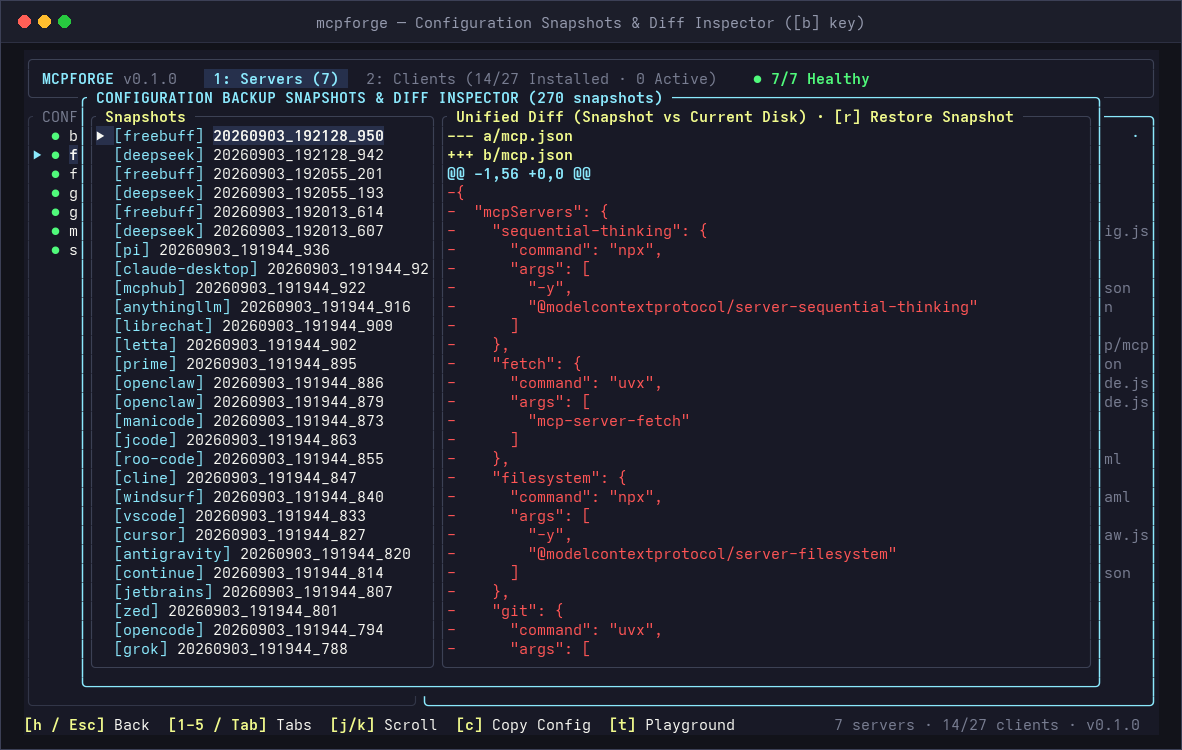
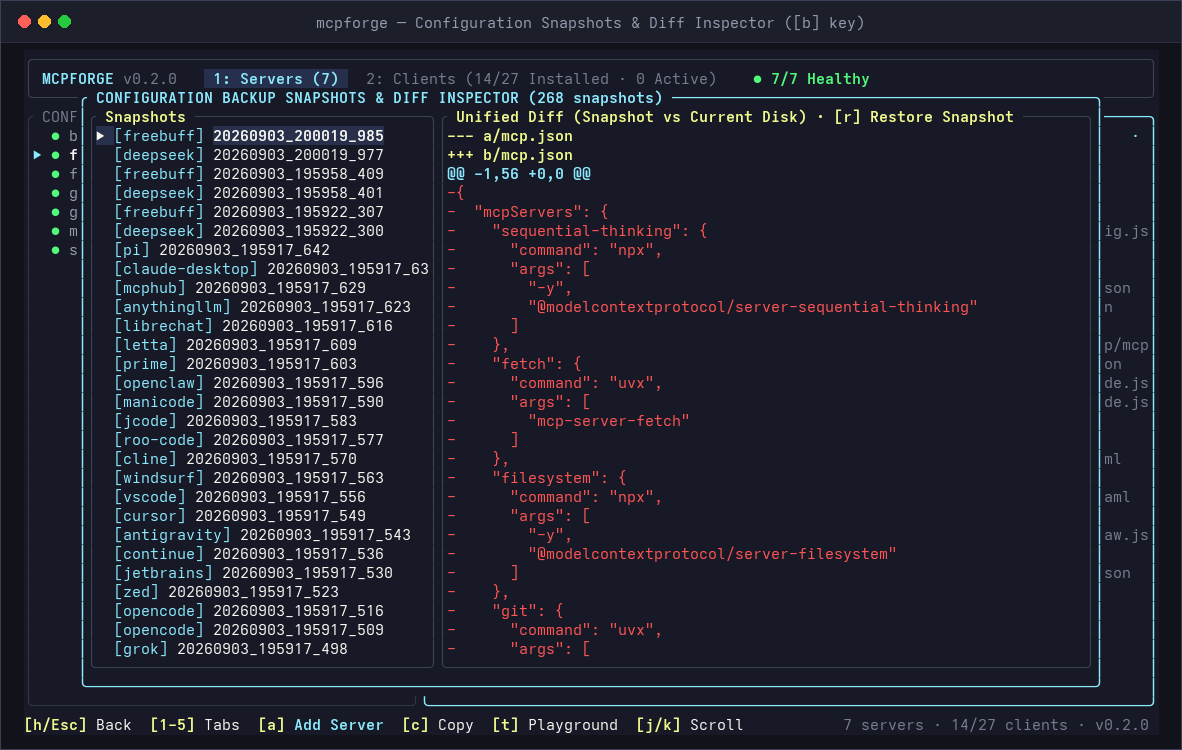
fix(ui): highlight [a] Add Server in footer and quick actions across all views

diff --git a/crates/mcpforge/src/ui/dashboard.rs b/crates/mcpforge/src/ui/dashboard.rs
@@ -76,60 +76,119 @@ fn render_server_list(f: &mut Frame, app: &App, area: Rect, theme: &Theme) {
     let (start, end) =
         crate::ui::layout::calculate_scroll_window(total, app.selected_index, visible_height);
 
-    let items: Vec<ListItem> = filtered[start..end]
-        .iter()
-        .enumerate()
-        .map(|(offset, server)| {
-            let real_idx = start + offset;
-            let status = app
-                .health_cache
-                .get(&server.id)
-                .cloned()
-                .unwrap_or(HealthStatus::Unknown);
+    let items: Vec<ListItem> = if total == 0 {
+        if !app.search_query.is_empty() {
+            vec![
+                ListItem::new(Line::raw("")),
+                ListItem::new(Line::from(vec![
+                    Span::raw("  "),
+                    Span::styled(
+                        format!("No servers match filter '{}'", app.search_query),
+                        Style::default().fg(Color::Rgb(150, 155, 175)),
+                    ),
+                ])),
+                ListItem::new(Line::raw("")),
+                ListItem::new(Line::from(vec![
+                    Span::raw("  • Press "),
+                    Span::styled("[Esc]", theme.key_shortcut),
+                    Span::styled(" to clear filter", Style::default().fg(Color::Cyan)),
+                ])),
+            ]
+        } else {
+            vec![
+                ListItem::new(Line::raw("")),
+                ListItem::new(Line::from(vec![
+                    Span::raw("  "),
+                    Span::styled(
+                        "No configured servers found.",
+                        Style::default().fg(Color::Rgb(150, 155, 175)),
+                    ),
+                ])),
+                ListItem::new(Line::raw("")),
+                ListItem::new(Line::from(vec![
+                    Span::raw("  • Press "),
+                    Span::styled("[a]", theme.key_shortcut),
+                    Span::styled(
+                        " to Add an MCP Server from Catalog",
+                        Style::default()
+                            .fg(Color::Rgb(139, 233, 253))
+                            .add_modifier(Modifier::BOLD),
+                    ),
+                ])),
+                ListItem::new(Line::from(vec![
+                    Span::raw("  • Press "),
+                    Span::styled("[u]", theme.key_shortcut),
+                    Span::styled(
+                        " to Auto-Sync from detected clients",
+                        Style::default().fg(Color::Rgb(150, 155, 175)),
+                    ),
+                ])),
+            ]
+        }
+    } else {
+        filtered[start..end]
+            .iter()
+            .enumerate()
+            .map(|(offset, server)| {
+                let real_idx = start + offset;
+                let is_selected = real_idx == app.selected_index;
+                let is_enabled = server.enabled;
 
-            let (icon, icon_style) = match status {
-                HealthStatus::Healthy { .. } => ("●", theme.status_healthy),
-                HealthStatus::Degraded { .. } => ("▲", theme.status_degraded),
-                HealthStatus::Broken { .. } => ("✖", theme.status_broken),
-                HealthStatus::Disabled => ("○", theme.status_disabled),
-                HealthStatus::Unknown => ("?", theme.muted),
-            };
+                let (cursor, name_style) = if is_selected {
+                    (
+                        "▶ ",
+                        Style::default()
+                            .fg(Color::White)
+                            .add_modifier(Modifier::BOLD),
+                    )
+                } else {
+                    ("  ", Style::default().fg(Color::Rgb(150, 155, 175)))
+                };
 
-            let is_selected = real_idx == app.selected_index;
-            let cursor = if is_selected { "▶ " } else { "  " };
+                let health = app
+                    .health_cache
+                    .get(&server.id)
+                    .cloned()
+                    .unwrap_or(HealthStatus::Unknown);
 
-            let name_style = if is_selected {
-                theme.selected
-            } else if !server.enabled {
-                theme.status_disabled
-            } else {
-                Style::default().fg(Color::White)
-            };
+                let (icon, icon_style) = if !is_enabled {
+                    ("○", theme.status_disabled)
+                } else {
+                    match health {
+                        HealthStatus::Healthy { .. } => ("●", theme.status_healthy),
+                        HealthStatus::Degraded { .. } => ("▲", theme.status_degraded),
+                        HealthStatus::Broken { .. } => ("✖", theme.status_broken),
+                        HealthStatus::Disabled => ("○", theme.status_disabled),
+                        HealthStatus::Unknown => ("●", theme.status_healthy),
+                    }
+                };
 
-            let client_count = server.clients.len();
-            let line = Line::from(vec![
-                Span::styled(
-                    cursor,
-                    if is_selected {
-                        theme.title
-                    } else {
-                        theme.muted
-                    },
-                ),
-                Span::styled(format!("{} ", icon), icon_style),
-                Span::styled(format!("{:<18}", server.id), name_style),
-                Span::raw(" "),
-                Span::styled(
-                    format!("[{}]", server.transport.transport_type_str()),
-                    theme.pill_transport,
-                ),
-                Span::raw(" "),
-                Span::styled(format!("({} clients)", client_count), theme.muted),
-            ]);
+                let client_count = server.clients.len();
 
-            ListItem::new(line)
-        })
-        .collect();
+                let line = Line::from(vec![
+                    Span::styled(
+                        cursor,
+                        if is_selected {
+                            theme.title
+                        } else {
+                            theme.muted
+                        },
+                    ),
+                    Span::styled(format!("{} ", icon), icon_style),
+                    Span::styled(format!("{:<18}", server.id), name_style),
+                    Span::raw(" "),
+                    Span::styled(
+                        format!("[{}]", server.transport.transport_type_str()),
+                        theme.pill_transport,
+                    ),
+                    Span::raw(" "),
+                    Span::styled(format!("({} clients)", client_count), theme.muted),
+                ]);
+
+                ListItem::new(line)
+            })
+            .collect()
+    };
 
     let title = if total > 0 {
         format!(
@@ -397,6 +456,13 @@ fn render_overview_tab(
     // 5. Quick action hints
     lines.push(Line::from(vec![
         Span::styled("Quick Actions: ", theme.muted),
+        Span::styled("[a] ", theme.key_shortcut),
+        Span::styled(
+            "Add Server  ",
+            Style::default()
+                .fg(Color::Cyan)
+                .add_modifier(Modifier::BOLD),
+        ),
         Span::styled("[t] ", theme.key_shortcut),
         Span::raw("Playground & Form Builder  "),
         Span::styled("[T] ", theme.key_shortcut),
@@ -753,7 +819,7 @@ fn render_config_json_tab(
 fn render_footer(f: &mut Frame, app: &App, area: Rect, theme: &Theme) {
     let chunks = Layout::default()
         .direction(Direction::Horizontal)
-        .constraints([Constraint::Min(20), Constraint::Length(36)])
+        .constraints([Constraint::Min(20), Constraint::Length(35)])
         .split(area);
 
     let left_line = if app.is_searching {
@@ -780,20 +846,34 @@ fn render_footer(f: &mut Frame, app: &App, area: Rect, theme: &Theme) {
         ])
     } else if app.focused_pane == FocusedPane::ServerDetails {
         Line::from(vec![
-            Span::styled("[h / Esc]", theme.key_shortcut),
+            Span::styled("[h/Esc]", theme.key_shortcut),
             Span::raw(" Back  "),
-            Span::styled("[1-5 / Tab]", theme.key_shortcut),
+            Span::styled("[1-5]", theme.key_shortcut),
             Span::raw(" Tabs  "),
-            Span::styled("[j/k]", theme.key_shortcut),
-            Span::raw(" Scroll  "),
+            Span::styled("[a]", theme.key_shortcut),
+            Span::styled(
+                " Add Server  ",
+                Style::default()
+                    .fg(Color::Cyan)
+                    .add_modifier(Modifier::BOLD),
+            ),
             Span::styled("[c]", theme.key_shortcut),
-            Span::raw(" Copy Config  "),
+            Span::raw(" Copy  "),
             Span::styled("[t]", theme.key_shortcut),
-            Span::raw(" Playground"),
+            Span::raw(" Playground  "),
+            Span::styled("[j/k]", theme.key_shortcut),
+            Span::raw(" Scroll"),
         ])
     } else {
         Line::from(vec![
-            Span::styled("[Enter / l]", theme.key_shortcut),
+            Span::styled("[a]", theme.key_shortcut),
+            Span::styled(
+                " Add Server  ",
+                Style::default()
+                    .fg(Color::Cyan)
+                    .add_modifier(Modifier::BOLD),
+            ),
+            Span::styled("[Enter]", theme.key_shortcut),
             Span::raw(" Inspect  "),
             Span::styled("[Space]", theme.key_shortcut),
             Span::raw(" Toggle  "),
@@ -801,10 +881,8 @@ fn render_footer(f: &mut Frame, app: &App, area: Rect, theme: &Theme) {
             Span::raw(" Playground  "),
             Span::styled("[/]", theme.key_shortcut),
             Span::raw(" Filter  "),
-            Span::styled("[a]", theme.key_shortcut),
-            Span::raw(" Add  "),
-            Span::styled("[b]", theme.key_shortcut),
-            Span::raw(" Backups  "),
+            Span::styled("[d]", theme.key_shortcut),
+            Span::raw(" Remove  "),
             Span::styled("[?]", theme.key_shortcut),
             Span::raw(" Help"),
         ])
@@ -828,7 +906,10 @@ fn render_footer(f: &mut Frame, app: &App, area: Rect, theme: &Theme) {
     )]);
 
     f.render_widget(Paragraph::new(left_line), chunks[0]);
-    f.render_widget(Paragraph::new(right_line), chunks[1]);
+    f.render_widget(
+        Paragraph::new(right_line).alignment(ratatui::layout::Alignment::Right),
+        chunks[1],
+    );
 }
 
 pub fn render_snippet_modal(f: &mut Frame, app: &App) {

diff --git a/crates/mcpforge/src/tui.rs b/crates/mcpforge/src/tui.rs
@@ -241,6 +241,9 @@ async fn main_loop<B: ratatui::backend::Backend>(
                                         app.refresh_servers();
                                     }
                                 }
+                                KeyCode::Char('a') => {
+                                    app.start_wizard();
+                                }
                                 KeyCode::Char('q') => {
                                     app.should_quit = true;
                                 }
@@ -467,6 +470,9 @@ async fn main_loop<B: ratatui::backend::Backend>(
                                     ));
                                 }
                             }
+                        }
+                        KeyCode::Char('a') => {
+                            app.start_wizard();
                         }
                         KeyCode::Char('d')
                         | KeyCode::Delete

diff --git a/crates/mcpforge/src/ui/clients.rs b/crates/mcpforge/src/ui/clients.rs
@@ -470,6 +470,13 @@ fn render_clients_footer(f: &mut Frame, area: Rect, theme: &Theme) {
     let key_hints = Line::from(vec![
         Span::styled("[Tab/1]", theme.key_shortcut),
         Span::raw(" Servers   "),
+        Span::styled("[a]", theme.key_shortcut),
+        Span::styled(
+            " Add Server   ",
+            Style::default()
+                .fg(Color::Cyan)
+                .add_modifier(Modifier::BOLD),
+        ),
         Span::styled("[j/k]", theme.key_shortcut),
         Span::raw(" Navigate   "),
         Span::styled("[u]", theme.key_shortcut),
